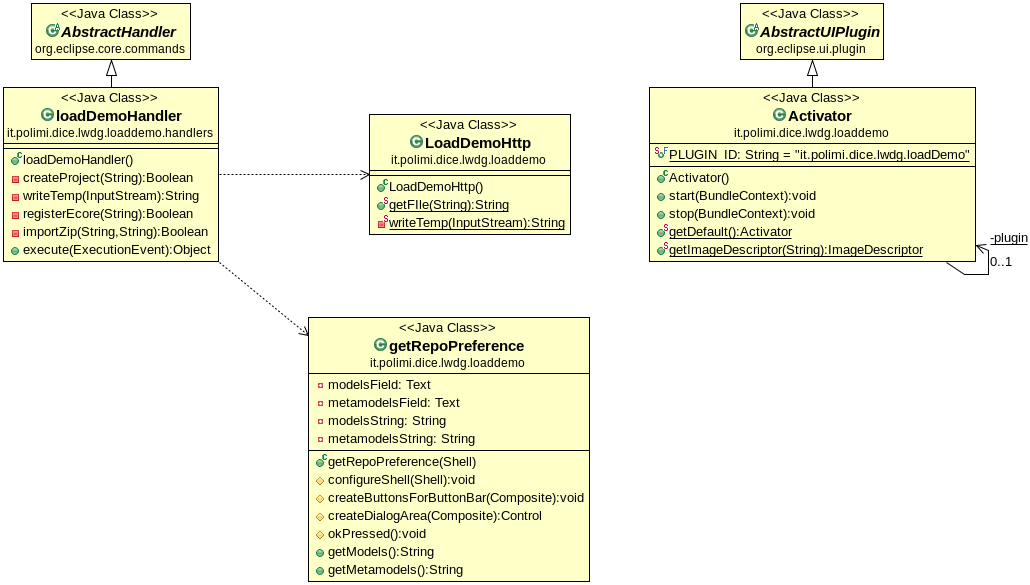
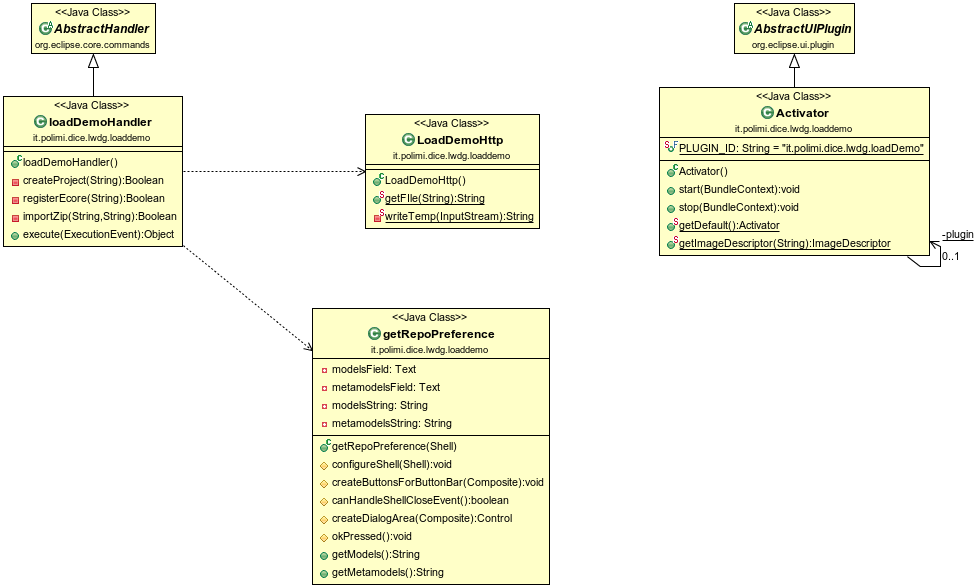
error handling fix

Changed region(s): [[0.0, 0.0, 0.5533, 0.4615], [0.2766, 0.5231, 0.584, 1.0], [0.6148, 0.0, 1.0, 0.4615]]

diff --git a/it.polimi.dice.lwdg.loadDemo/src/it/polimi/dice/lwdg/loaddemo/loadDemoHandler.java b/it.polimi.dice.lwdg.loadDemo/src/it/polimi/dice/lwdg/loaddemo/loadDemoHandler.java
@@ -1,5 +1,6 @@
-package it.polimi.dice.lwdg.loaddemo.handlers;
+package it.polimi.dice.lwdg.loaddemo;
 
+import org.apache.http.client.ClientProtocolException;
 import org.eclipse.core.commands.AbstractHandler;
 import org.eclipse.core.commands.ExecutionEvent;
 import org.eclipse.core.commands.ExecutionException;
@@ -16,12 +17,11 @@ import org.eclipse.ui.dialogs.IOverwriteQuery;
 import org.eclipse.ui.handlers.HandlerUtil;
 import org.eclipse.ui.wizards.datatransfer.ImportOperation;
 import org.eclipse.ui.wizards.datatransfer.ZipFileStructureProvider;
-import it.polimi.dice.lwdg.loaddemo.LoadDemoHttp;
-import it.polimi.dice.lwdg.loaddemo.getRepoPreference;
 import org.eclipse.jface.dialogs.MessageDialog;
 
 import java.io.IOException;
 import java.lang.reflect.InvocationTargetException;
+import java.util.zip.ZipException;
 import java.util.zip.ZipFile;
 import org.eclipse.emf.common.util.URI;
 import org.eclipse.emf.ecore.EObject;
@@ -99,8 +99,9 @@ public class loadDemoHandler extends AbstractHandler {
      * @param myfilepath Absolute path of the Zip file to import 
      * @param myproject Project name
      * @return Boolean
+     * @throws Exception 
      */
-    private Boolean importZip(String myfilepath, String myproject) {
+    private Boolean importZip(String myfilepath, String myproject) throws Exception {
 
         IWorkspaceRoot root = ResourcesPlugin.getWorkspace().getRoot();
         IProject project = root.getProject(myproject);
@@ -118,11 +119,23 @@ public class loadDemoHandler extends AbstractHandler {
             ImportOperation op = new ImportOperation(project.getFullPath(), structureProvider.getRoot(), structureProvider, overwriteQuery);
             op.run(new NullProgressMonitor());
             return true;
-        } catch (CoreException | IOException | InvocationTargetException | InterruptedException e) {
-            return false;
+        	} catch (ZipException e) {
+        	    e.printStackTrace();
+        	    throw new Exception("loadDemoHandler: ZipException.\n"+myfilepath+"\nIs zip valid?");
+        	} catch (CoreException e) {
+        	    e.printStackTrace();
+        	    throw new Exception("loadDemoHandler: CoreException");
+        	} catch (IOException e) {
+        	    e.printStackTrace();
+        	    throw new Exception("loadDemoHandler: IOException.\nIs zip valid ?");
+        	} catch (InvocationTargetException e) {
+        	    e.printStackTrace();
+        	    throw new Exception("loadDemoHandler: InvocationTargetException"); 
+        	} catch (InterruptedException e) {
+        	    e.printStackTrace();
+        	    throw new Exception("loadDemoHandler: InterruptedException"); 
+        	}
         }
-
-    }
 
     /**
      * {@inheritDoc}

diff --git a/it.polimi.dice.lwdg.loadDemo/src/it/polimi/dice/lwdg/loaddemo/LoadDemoHttp.java b/it.polimi.dice.lwdg.loadDemo/src/it/polimi/dice/lwdg/loaddemo/LoadDemoHttp.java
@@ -33,28 +33,35 @@ public class LoadDemoHttp {
 	 * @throws Exception
 	 */
 	public static String getFIle(String repo) throws Exception{
+	    	
 		if (repo != null && !repo.isEmpty()) {
 	
-			CloseableHttpClient httpclient = HttpClients.createDefault();
-			HttpGet httpget = new HttpGet(repo);
-			CloseableHttpResponse response;
-			try {
-				response = httpclient.execute(httpget);
+		    CloseableHttpClient httpclient = HttpClients.createDefault();
+		    HttpGet httpget = new HttpGet(repo);
+		    CloseableHttpResponse response;
+		    try {
+			response = httpclient.execute(httpget);
+			int responseCode = response.getStatusLine().getStatusCode();
+			if (responseCode == 200) {
 				HttpEntity entity = response.getEntity();
-	        	InputStream is = entity.getContent();
-	        	String out=writeTemp(is);
-	    	    response.close();
-	    	    return out;
+		        	InputStream is = entity.getContent();
+		        	String out=writeTemp(is);
+		    	    	response.close();
+		    	    	return out;
+			} else {
+			    throw new Exception("LoadDemoHttp: Repository not valid.\n"+repo+"\n Response Code:"
+					+ responseCode);
+			}
 			} catch (ClientProtocolException e) {
-				throw new Exception("ClientProtocolException: Please check URL syntax");
-	        } catch (UnsupportedOperationException e) {
-	        	throw new Exception("UnsupportedOperationException");
-	        } catch (IOException e) {
-	        	throw new Exception("IOException");
-	        }   
-
+				throw new Exception("HttpClients: ClientProtocolException. Please check URL syntax");
+			} catch (UnsupportedOperationException e) {
+			    	throw new Exception("HttpClients: UnsupportedOperationException.");
+			} catch (IOException e) {
+			    e.printStackTrace();
+			    	throw new Exception("HttpClients: IOException. Please check http or https");
+			}   
 		}else {
-			throw new Exception("Repo not valid");
+			throw new Exception("LoadDemoHttp: Empty Repository");
 		}
 	}
 	

diff --git a/it.polimi.dice.lwdg.launcher/src/it/polimi/dice/lwdg/launcher/LWDGgui.java b/it.polimi.dice.lwdg.launcher/src/it/polimi/dice/lwdg/launcher/LWDGgui.java
@@ -18,6 +18,7 @@ import org.eclipse.swt.widgets.MessageBox;
 import org.eclipse.swt.widgets.Shell;
 import org.eclipse.swt.widgets.Text;
 import org.eclipse.ui.PlatformUI;
+
 /**
  * This class draw the preferences panel for DICE-LWDG launcher plugin.
  * @author Giorgio Bartoccioni
@@ -168,27 +169,36 @@ public class LWDGgui {
         });
     }
     
+    /**
+     * Return URL Text element
+     * @return
+     */
     public Text getDicerURL() {
         return URL;
     }
 
+    /**
+     * Return inBrowseButton element
+     * @return
+     */
     public Button getInButton() {
         return inBrowseButton;
     }
 
+    /**
+     * Return inputFile Text element
+     * @return
+     */
     public Text getInputFile() {
         return inputFile;
     }
+
+    /**
+     * Return outputFile Text element
+     * @return
+     */
     public Text getOutputFile() {
         return outputFile;
     }
-    
-    @SuppressWarnings("unused")
-    private static boolean isEmpty(String input)
-    {
-        if(input == null)
-            return true;
-        else
-            return input.trim().isEmpty();
-    }    
+  
 }

diff --git a/it.polimi.dice.lwdg.launcher/src/it/polimi/dice/lwdg/launcher/LWDGLaunchConfigurationTabGroup.java b/it.polimi.dice.lwdg.launcher/src/it/polimi/dice/lwdg/launcher/LWDGLaunchConfigurationTabGroup.java
@@ -11,7 +11,10 @@ import org.eclipse.debug.ui.ILaunchConfigurationTab;
  */
 public class LWDGLaunchConfigurationTabGroup extends AbstractLaunchConfigurationTabGroup{
 
-	@Override
+	/**
+	 * Set of configuration tab groups
+	 */
+    	@Override
 	public void createTabs(ILaunchConfigurationDialog dialog, String mode) {
 		
 		setTabs(new ILaunchConfigurationTab[] {new LWDGMainLaunchConfigurationTab(), new CommonTab() });

diff --git a/it.polimi.dice.lwdg.launcher/src/it/polimi/dice/lwdg/launcher/LWDGHttpclient.java b/it.polimi.dice.lwdg.launcher/src/it/polimi/dice/lwdg/launcher/LWDGHttpclient.java
@@ -76,7 +76,7 @@ public class LWDGHttpclient {
      * This method execute a simple GET at the given URL to check if service is
      * alive
      * 
-     * @param url
+     * @param url to check
      */
     public static Boolean checkURL(String url) throws Exception {
 	if (url != null && !url.isEmpty()) {
